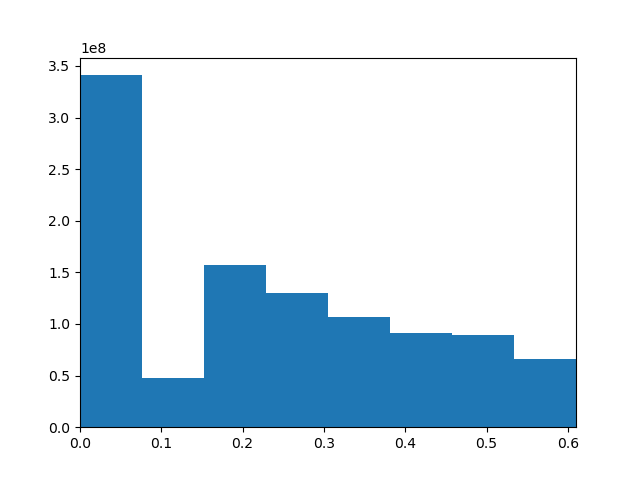
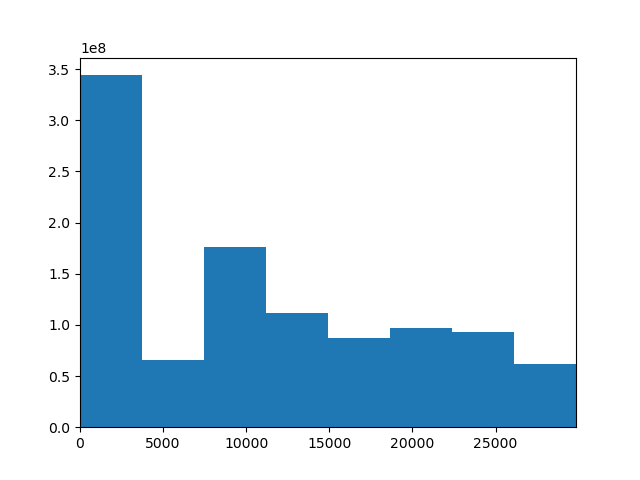
add histogram calculation

diff --git a/histogram.py b/histogram.py
@@ -51,8 +51,9 @@ n_samples = 500
 indices = np.random.choice(len(nyu_dataset), n_samples, replace=False)
 for rgb_img, depth_img in tqdm(Subset(nyu_dataset, indices)):
 # for rgb_img, depth_img in tqdm(nyu_dataset):
-    depth_img = depth_convert(depth_img)
-    hist, bin_edges = compute_histogram(depth_img, num_of_planes, range=(0, 0.61))
+    # depth_img = depth_convert(depth_img)
+    # hist, bin_edges = compute_histogram(depth_img, num_of_planes, range=(0, 0.61))
+    hist, bin_edges = compute_histogram(depth_img, num_of_planes)
     sum_hist = [a + b for a, b in zip(sum_hist, hist)]
 
 # hist, bin_edges = compute_histogram(nyu_dataset[0][1], num_of_planes, range=(0, 30000))

diff --git a/load_image.py b/load_image.py
@@ -15,6 +15,9 @@ from torchvision.transforms.functional import resize as resize_tensor
 
 # A Large-Scale Hierarchical Multi-View RGB-D Object Dataset
 # https://rgbd-dataset.cs.washington.edu/dataset/rgbd-dataset_full/
+
+# Washington Scenes V2
+# https://rgbd-dataset.cs.washington.edu/dataset/rgbd-scenes-v2/
 class LSHMV_RGBD_Object_Dataset(Dataset):
     def __init__(self, img_dir, color_transform=None, depth_transform=None, output_type='color_depth', channel=None):
         '''
